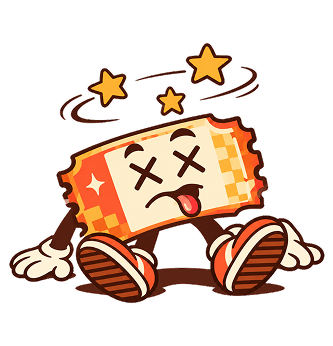
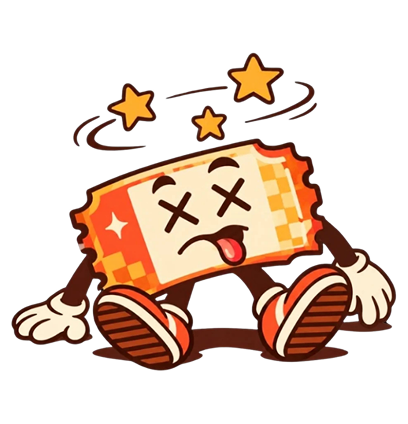
feat: telas de erros finalizadas

diff --git a/src/app/(auth)/error404.tsx b/src/app/(auth)/error404.tsx
@@ -5,15 +5,15 @@ export default function error404() {
   return (
     <View style={styles.container}>
         <View style={styles.containerImage}>
-            <Image source={require('@/assets/images/not-found-404.png')}/>
+            <Image style={styles.img} source={require('@/assets/images/not-found-404.png')}/>
         </View>
 
         <View>
             <View>
-                <Text style={styles.texto}>Ops! Algo não está certo com este link (Erro 404)</Text>
+                <Text style={styles.texto}>Ops! {"\n"}Algo não está certo com este link {"\n"}(Erro 404)</Text>
             </View>
 
-            <View>
+            <View style={styles.btnContainer}>
                 <Pressable style={styles.btnPg}>
                     <Text style={styles.btnTexto}>Página Inicial</Text>
                 </Pressable>
@@ -31,10 +31,20 @@ const styles = StyleSheet.create({
         justifyContent:"center"
     },
     containerImage: {
-        height: 300,
+        height: 300
+    },
+    img: {
+        width: 300,
+        height: 300
     },
     texto: {
+        marginTop: 5,
+        textAlign: "center",
         fontFamily: fonts.caprasimo,
+        fontSize: 18
+    },
+    btnContainer: {
+        alignItems: "center"
     },
     btnPg: {
         marginTop: 20,
@@ -49,6 +59,6 @@ const styles = StyleSheet.create({
     btnTexto: {
         fontSize: 18,
         color: "#fff",
-        fontFamily: fonts.dmSansMedium,
+        fontFamily: fonts.caprasimo,
     },
 })

diff --git a/src/app/(auth)/error500.tsx b/src/app/(auth)/error500.tsx
@@ -5,12 +5,12 @@ export default function error404() {
   return (
     <View style={styles.container}>
         <View style={styles.containerImage}>
-            <Image source={require('@/assets/images/error-page-500.png')}/>
+            <Image style={styles.img}source={require('@/assets/images/error-page-500.png')}/>
         </View>
 
         <View>
             <View>
-                <Text style={styles.texto}>Ops! Algo quebrou por aqui (Erro 500)</Text>
+                <Text style={styles.texto}>Ops!{"\n"}Algo quebrou por aqui{"\n"}(Erro 500)</Text>
             </View>
 
             <View>
@@ -31,10 +31,20 @@ const styles = StyleSheet.create({
         justifyContent:"center"
     },
     containerImage: {
-        height: 300,
+        height: 300
+    },
+    img: {
+        width: 300,
+        height: 300
     },
     texto: {
-        fontFamily: "caprasimo",
+        marginTop: 5,
+        textAlign: "center",
+        fontFamily: fonts.caprasimo,
+        fontSize: 18
+    },
+    btnContainer: {
+        alignItems: "center"
     },
     btnPg: {
         marginTop: 20,
@@ -49,8 +59,6 @@ const styles = StyleSheet.create({
     btnTexto: {
         fontSize: 18,
         color: "#fff",
-        fontWeight: "500",
+        fontFamily: fonts.caprasimo,
     },
-
-
 })

diff --git a/src/app/_layout.tsx b/src/app/_layout.tsx
@@ -1,16 +1,26 @@
 import { Stack } from "expo-router";
-import { QueryClient, QueryClientProvider} from "@tanstack/react-query"
+import { QueryClient, QueryClientProvider } from "@tanstack/react-query";
 import { GestureHandlerRootView } from "react-native-gesture-handler";
+import { useFonts } from "expo-font";
 
 const queryClient = new QueryClient();
 
 export default function RootLayout() {
+  const [fontsLoaded, fontError] = useFonts({
+    Caprasimo_400Regular: require("@expo-google-fonts/caprasimo/400Regular/Caprasimo_400Regular.ttf"),
+    DMSans_400Regular: require("@expo-google-fonts/dm-sans/400Regular/DMSans_400Regular.ttf"),
+    DMSans_500Medium: require("@expo-google-fonts/dm-sans/500Medium/DMSans_500Medium.ttf"),
+  });
+
+  if (!fontsLoaded && !fontError) {
+    return null;
+  }
+
   return (
     <GestureHandlerRootView style={{ flex: 1 }}>
       <QueryClientProvider client={queryClient}>
-        <Stack screenOptions={{headerShown: false}}/>
+        <Stack screenOptions={{ headerShown: false }} />
       </QueryClientProvider>
     </GestureHandlerRootView>
-    
   );
 }
